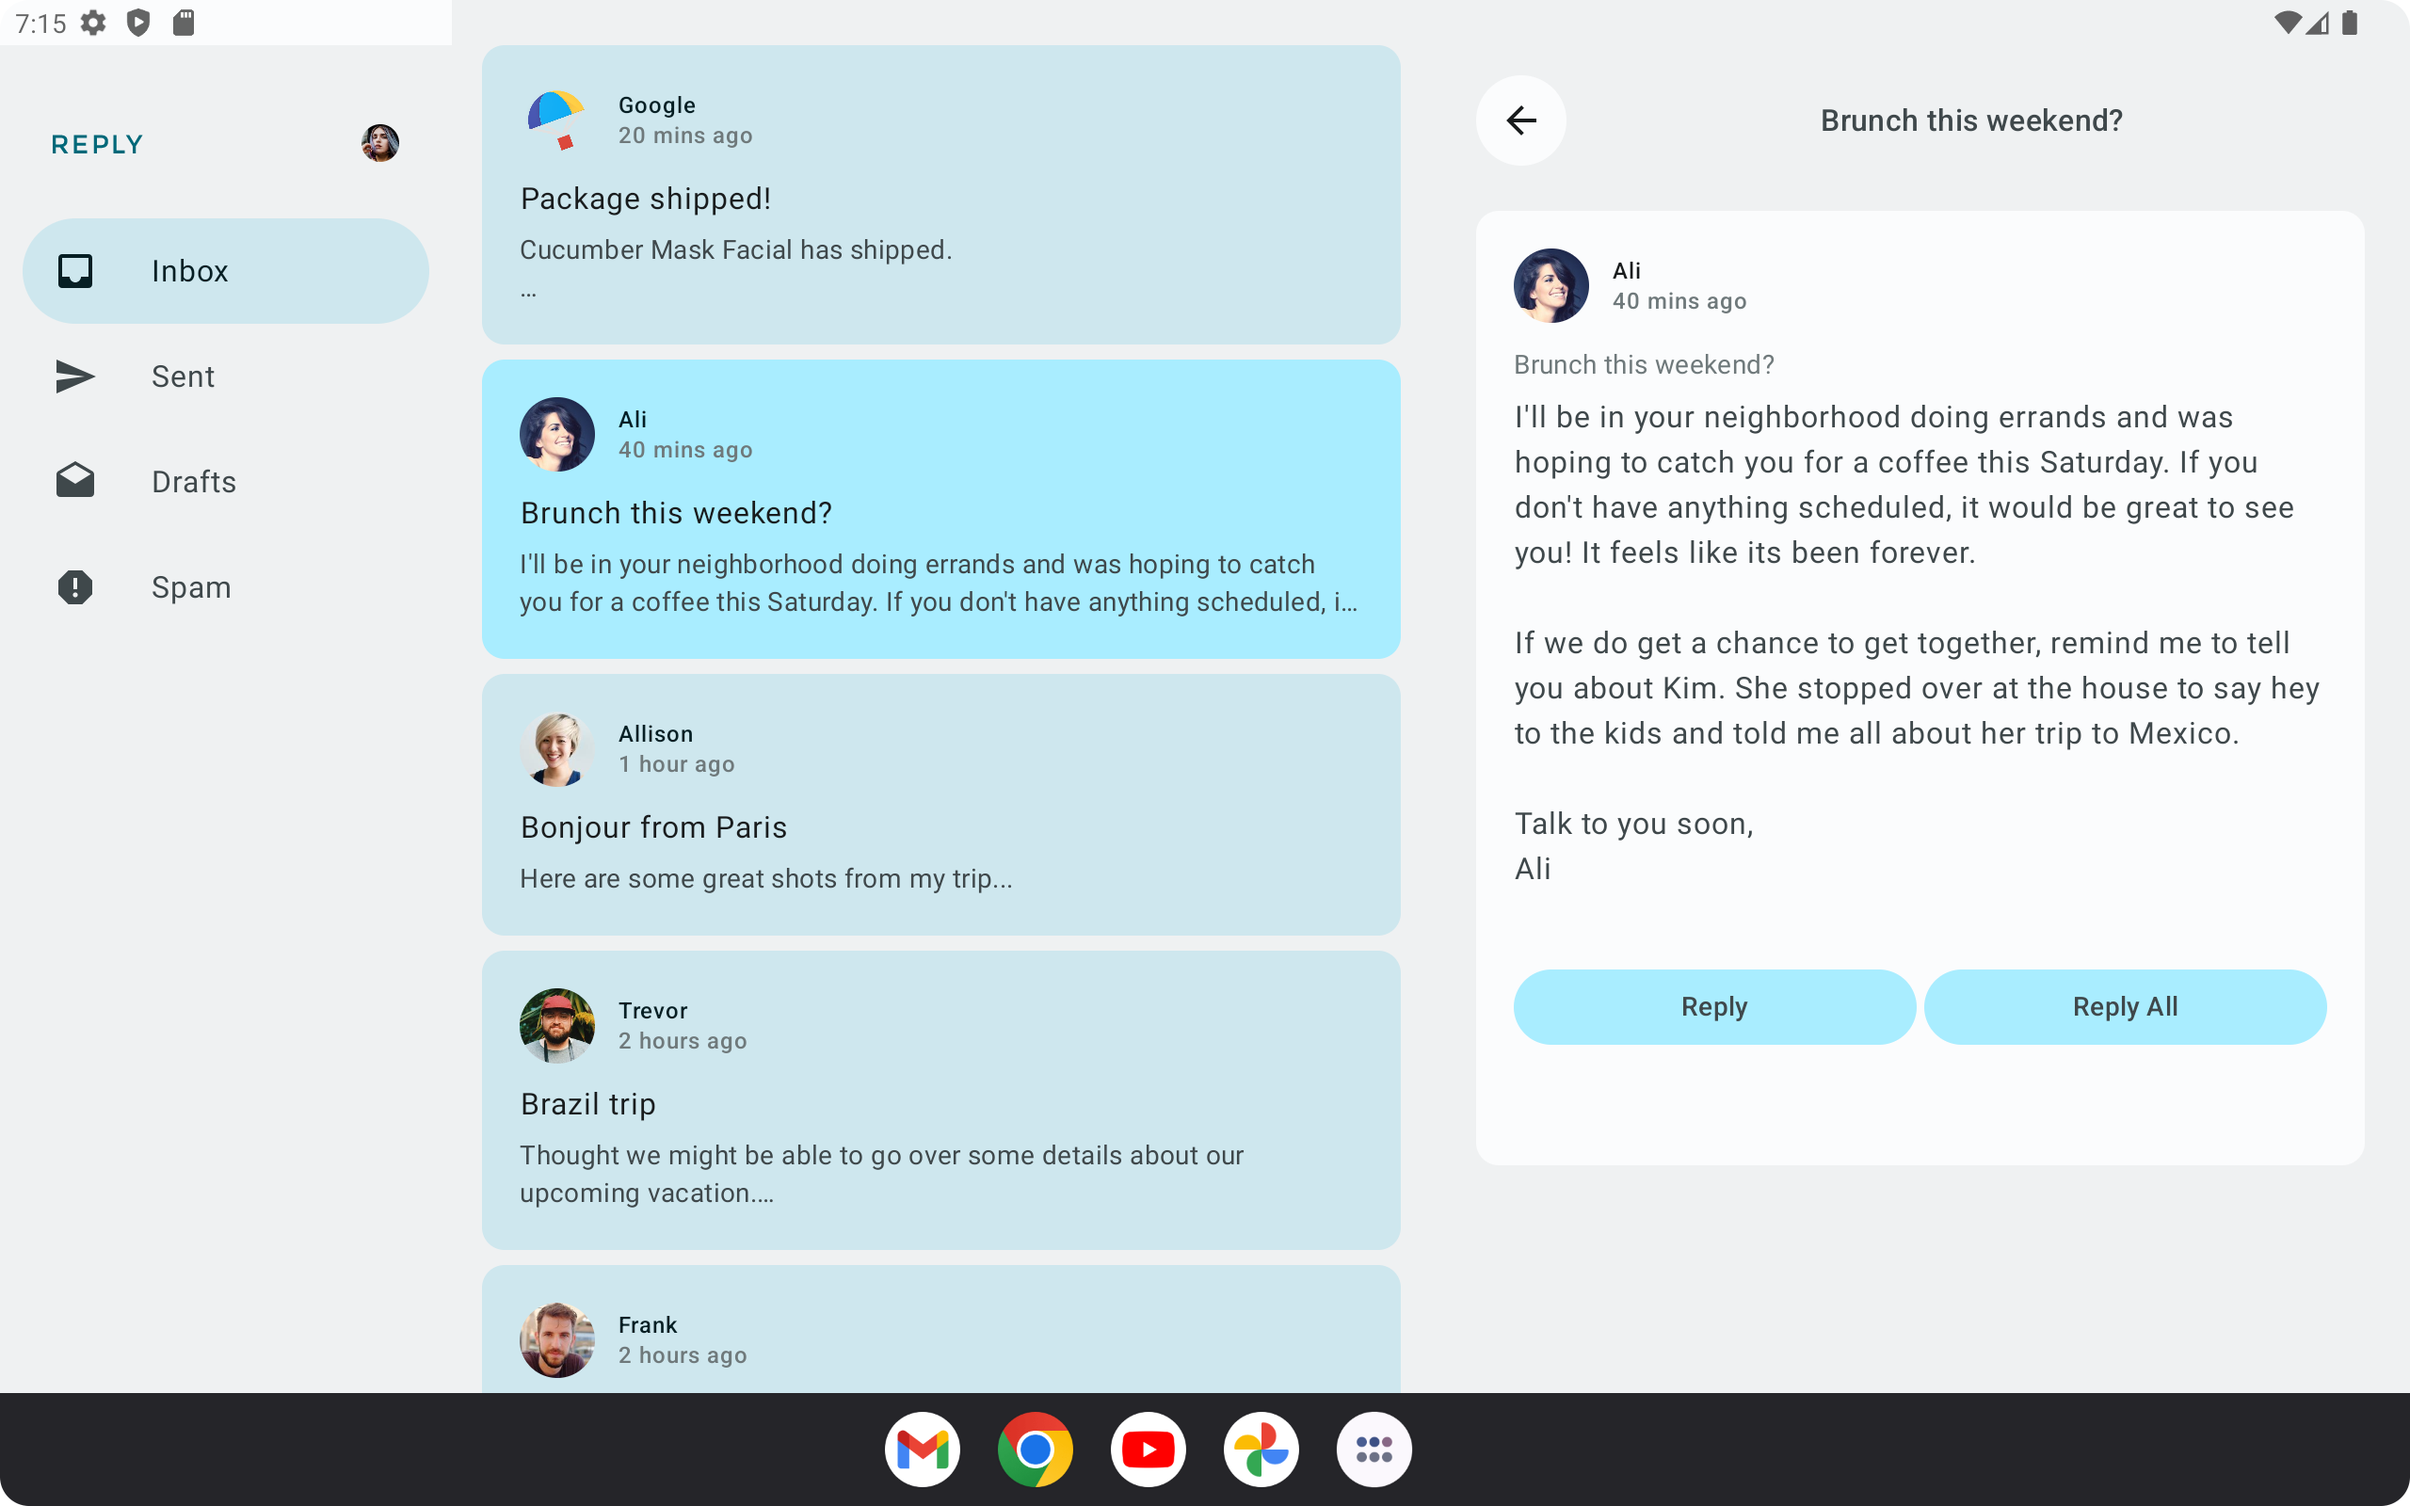
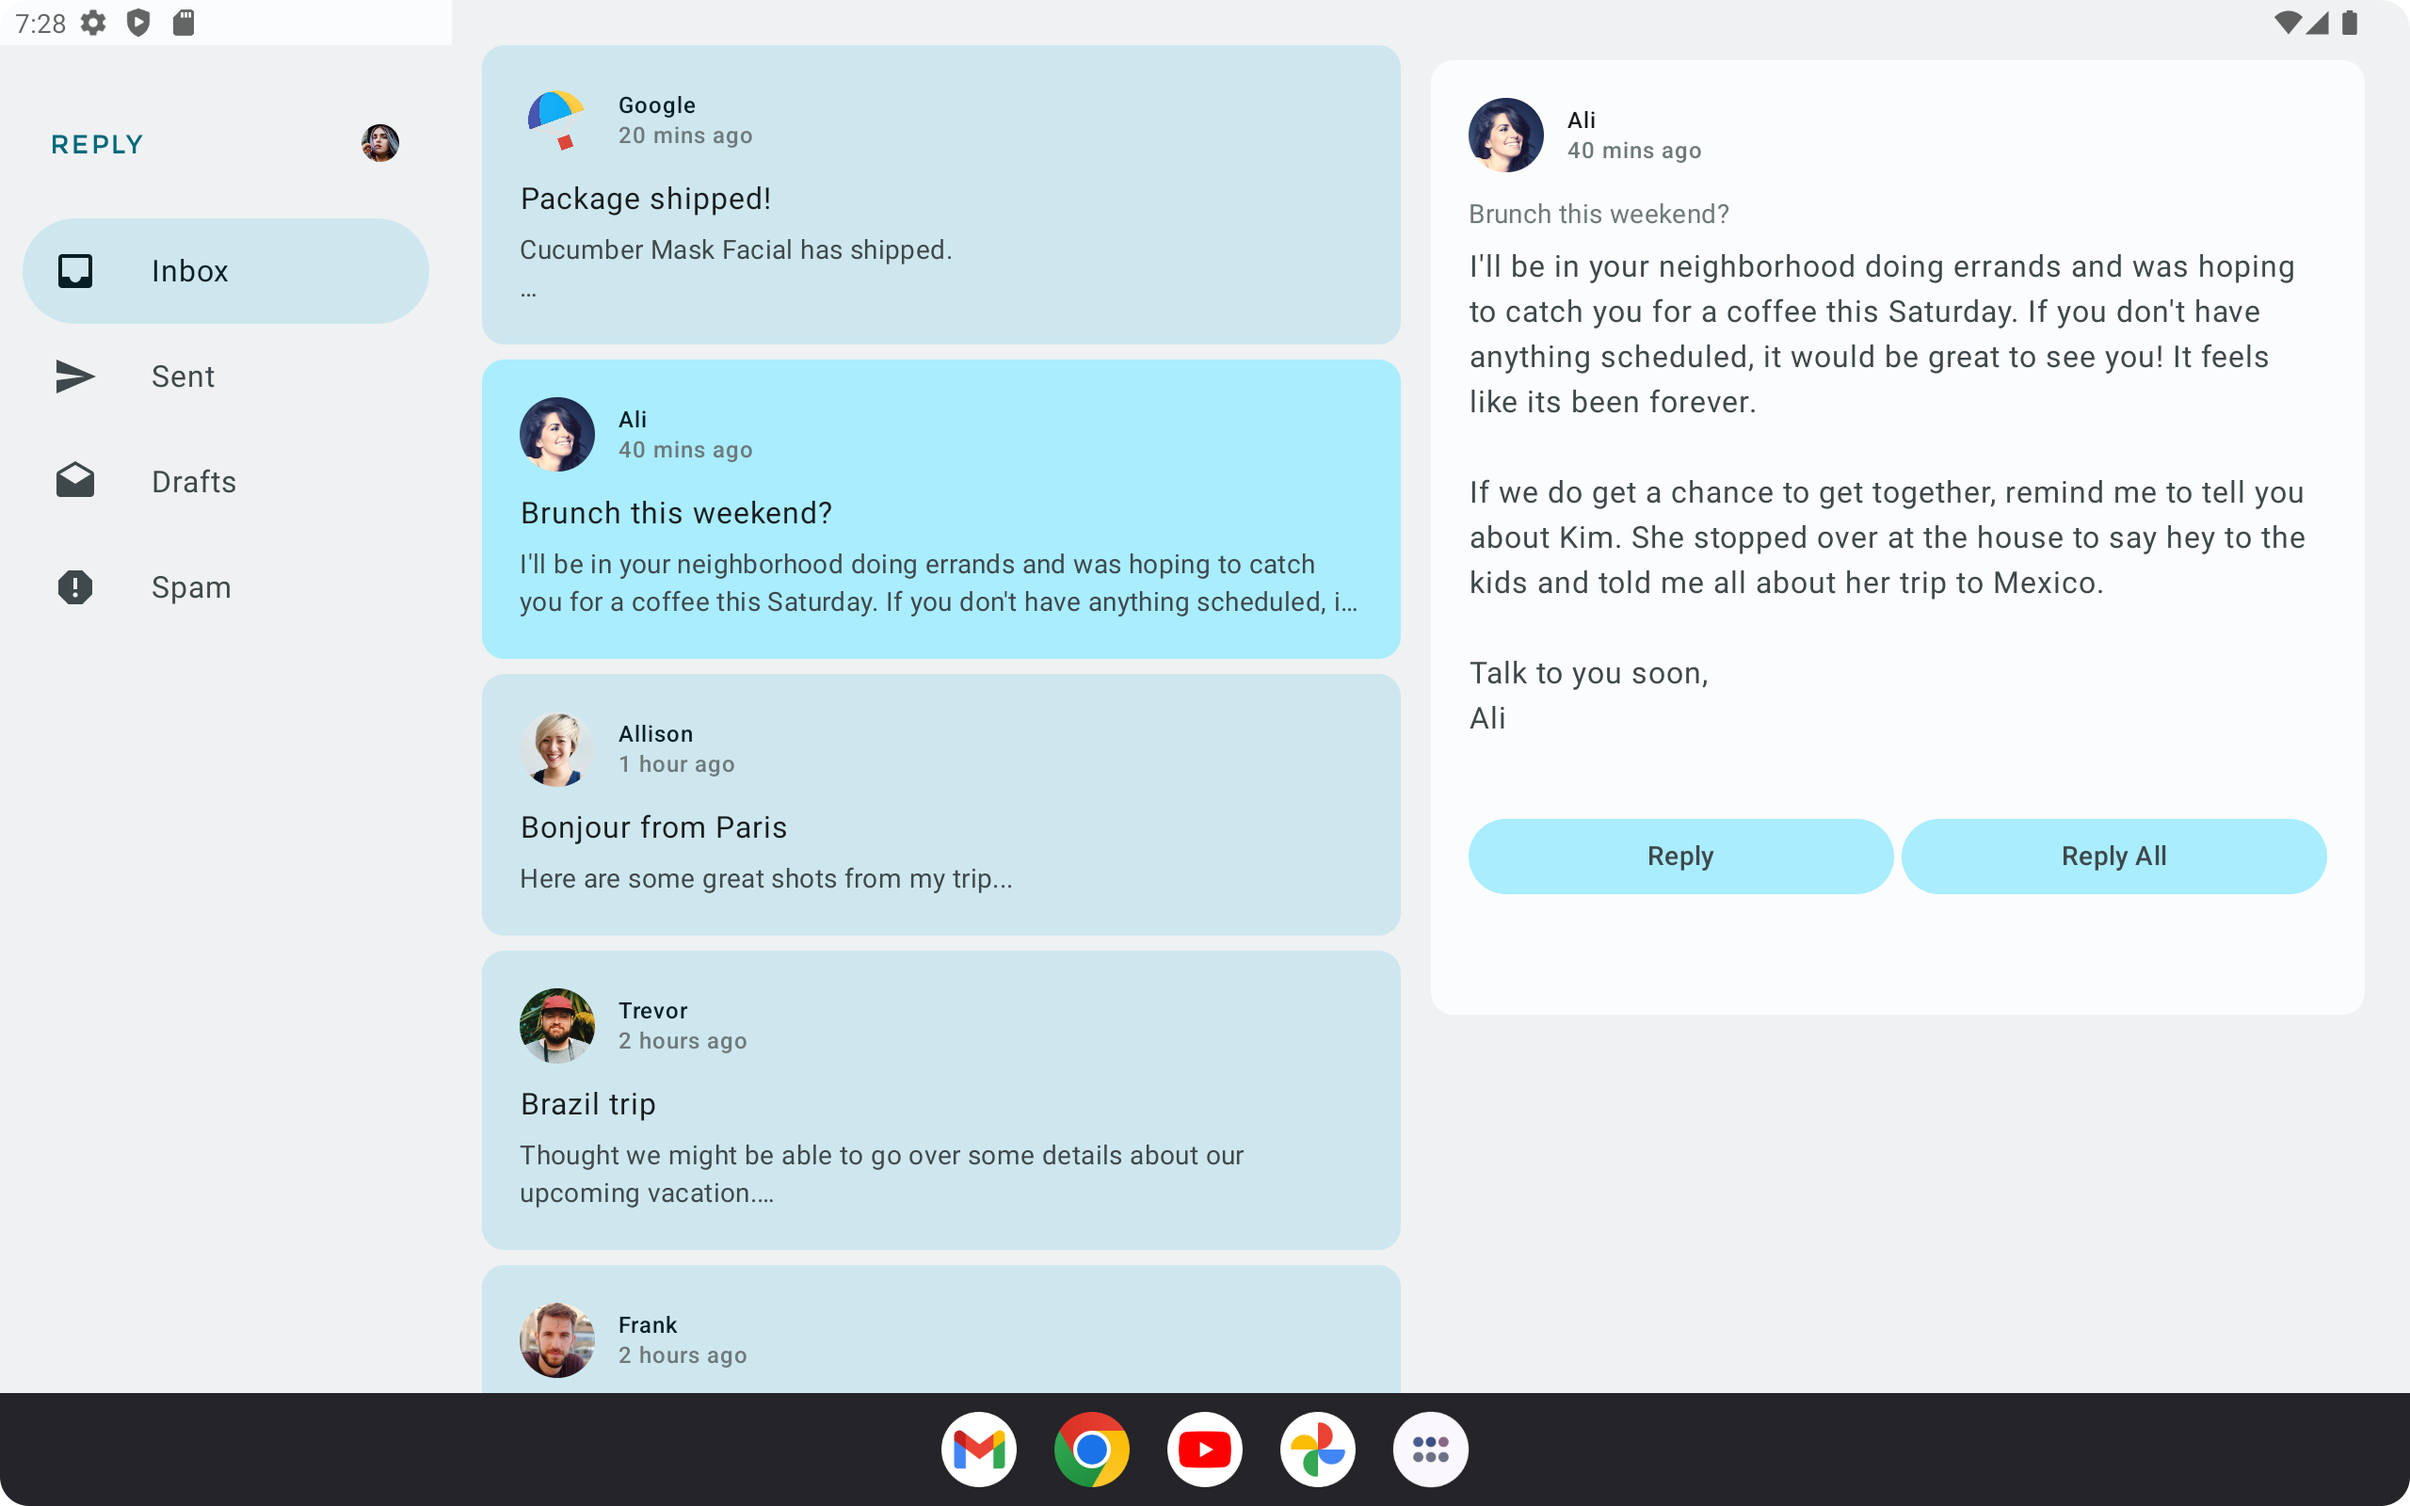
Completed implemented adaptive content layout

diff --git a/app/src/main/java/dizzcode/com/reply/ui/ReplyDetailsScreen.kt b/app/src/main/java/dizzcode/com/reply/ui/ReplyDetailsScreen.kt
@@ -7,10 +7,12 @@ import androidx.compose.foundation.layout.Arrangement
 import androidx.compose.foundation.layout.Box
 import androidx.compose.foundation.layout.Column
 import androidx.compose.foundation.layout.Row
+import androidx.compose.foundation.layout.Spacer
 import androidx.compose.foundation.layout.WindowInsets
 import androidx.compose.foundation.layout.asPaddingValues
 import androidx.compose.foundation.layout.fillMaxSize
 import androidx.compose.foundation.layout.fillMaxWidth
+import androidx.compose.foundation.layout.height
 import androidx.compose.foundation.layout.navigationBarsPadding
 import androidx.compose.foundation.layout.padding
 import androidx.compose.foundation.layout.safeDrawing
@@ -41,6 +43,7 @@ import dizzcode.com.reply.data.MailboxType
 fun ReplyDetailsScreen(
     replyUiState: ReplyUiState,
     onBackPressed: () -> Unit,
+    isFullScreen: Boolean = false,
     modifier: Modifier = Modifier
 ) {
     BackHandler {
@@ -54,23 +57,26 @@ fun ReplyDetailsScreen(
                 .background(color = MaterialTheme.colorScheme.inverseOnSurface)
         ) {
             item {
-                ReplyDetailsScreenTopBar(
-                    onBackPressed,
-                    replyUiState,
-                    Modifier
-                        .fillMaxWidth()
-                        .padding(
-                            bottom = dimensionResource(R.dimen.detail_topbar_padding_bottom),
-                            top = dimensionResource(R.dimen.topbar_padding_vertical)
-                        )
-                )
-                ReplyEmailDetailsCard(
-                    email = replyUiState.currentSelectedEmail,
-                    mailboxType = replyUiState.currentMailbox,
-                    modifier = Modifier
-                        .navigationBarsPadding()
-                        .padding(horizontal = dimensionResource(R.dimen.detail_card_outer_padding_horizontal))
-                )
+                if (isFullScreen) {
+                    ReplyDetailsScreenTopBar(
+                        onBackPressed,
+                        replyUiState,
+                        Modifier
+                            .fillMaxWidth()
+                            .padding(bottom = dimensionResource(R.dimen.detail_topbar_padding_bottom))
+                    )
+                }
+                    ReplyEmailDetailsCard(
+                        email = replyUiState.currentSelectedEmail,
+                        mailboxType = replyUiState.currentMailbox,
+                        isFullScreen = isFullScreen,
+                        modifier = if (isFullScreen) {
+                            Modifier.padding(horizontal = dimensionResource(R.dimen.detail_card_outer_padding_horizontal))
+                        } else {
+                            Modifier.padding(end = dimensionResource(R.dimen.detail_card_outer_padding_horizontal))
+                        }
+                    )
+
             }
         }
     }
@@ -116,6 +122,7 @@ private fun ReplyDetailsScreenTopBar(
 private fun ReplyEmailDetailsCard(
     email: Email,
     mailboxType: MailboxType,
+    isFullScreen: Boolean = false,
     modifier: Modifier = Modifier,
 ) {
     val context = LocalContext.current
@@ -135,21 +142,26 @@ private fun ReplyEmailDetailsCard(
                 email,
                 Modifier.fillMaxWidth()
             )
-            Text(
-                text = stringResource(email.subject),
-                style = MaterialTheme.typography.bodyMedium,
-                color = MaterialTheme.colorScheme.outline,
-                modifier = Modifier.padding(
-                    top = dimensionResource(R.dimen.detail_content_padding_top),
-                    bottom = dimensionResource(R.dimen.detail_expanded_subject_body_spacing)
-                ),
-            )
-            Text(
-                text = stringResource(email.body),
-                style = MaterialTheme.typography.bodyLarge,
-                color = MaterialTheme.colorScheme.onSurfaceVariant,
-            )
-            DetailsScreenButtonBar(mailboxType, displayToast)
+
+            if (isFullScreen) {
+                Spacer(modifier = Modifier.height(dimensionResource(R.dimen.detail_content_padding_top)))
+            } else {
+                Text(
+                    text = stringResource(email.subject),
+                    style = MaterialTheme.typography.bodyMedium,
+                    color = MaterialTheme.colorScheme.outline,
+                    modifier = Modifier.padding(
+                        top = dimensionResource(R.dimen.detail_content_padding_top),
+                        bottom = dimensionResource(R.dimen.detail_expanded_subject_body_spacing)
+                    ),
+                )
+                Text(
+                    text = stringResource(email.body),
+                    style = MaterialTheme.typography.bodyLarge,
+                    color = MaterialTheme.colorScheme.onSurfaceVariant,
+                )
+                DetailsScreenButtonBar(mailboxType, displayToast)
+            }
         }
     }
 }

diff --git a/app/src/main/java/dizzcode/com/reply/ui/ReplyHomeContent.kt b/app/src/main/java/dizzcode/com/reply/ui/ReplyHomeContent.kt
@@ -109,7 +109,7 @@ fun ReplyListAndDetailContent(
             modifier = Modifier
                 .padding(top = dimensionResource(R.dimen.email_list_item_vertical_spacing))
                 .weight(1f),
-            onBackPressed = {}
+            onBackPressed = { activity.finish() }
         )
     }
 }

diff --git a/app/src/main/java/dizzcode/com/reply/ui/ReplyHomeScreen.kt b/app/src/main/java/dizzcode/com/reply/ui/ReplyHomeScreen.kt
@@ -121,6 +121,7 @@ fun ReplyHomeScreen(
         else {
             ReplyDetailsScreen(
                 replyUiState = replyUiState,
+                isFullScreen = true,
                 onBackPressed = onDetailScreenBackPressed,
                 modifier = modifier
             )

diff --git a/README.md b/README.md
@@ -21,15 +21,21 @@
 ##
 ## View
 
-<img src="https://github.com/dizzcode/reply-android-test-app/blob/main/screenshots/img.png" width="400" height="800" />
+<img src="https://github.com/dizzcode/reply-android-test-app/blob/main/screenshots/img.png" width="200" height="400" />
 
 
 ##
 Permanent navigation drawer
 
-<img src="https://github.com/dizzcode/reply-android-test-app/blob/main/screenshots/permanent_navigation_drawer.png" width="600" height="400" />
+<img src="https://github.com/dizzcode/reply-android-test-app/blob/main/screenshots/permanent_navigation_drawer.png" width="300" height="200" />
 
 ##
 Navigation rail
 
-<img src="https://github.com/dizzcode/reply-android-test-app/blob/main/screenshots/navigation_rail.png" width="400" height="600" />
+<img src="https://github.com/dizzcode/reply-android-test-app/blob/main/screenshots/navigation_rail.png" width="200" height="300" />
+
+
+##
+Adaptive content layout
+
+<img src="https://github.com/dizzcode/reply-android-test-app/blob/main/screenshots/adaptive_content_layout.png" width="300" height="200" />
